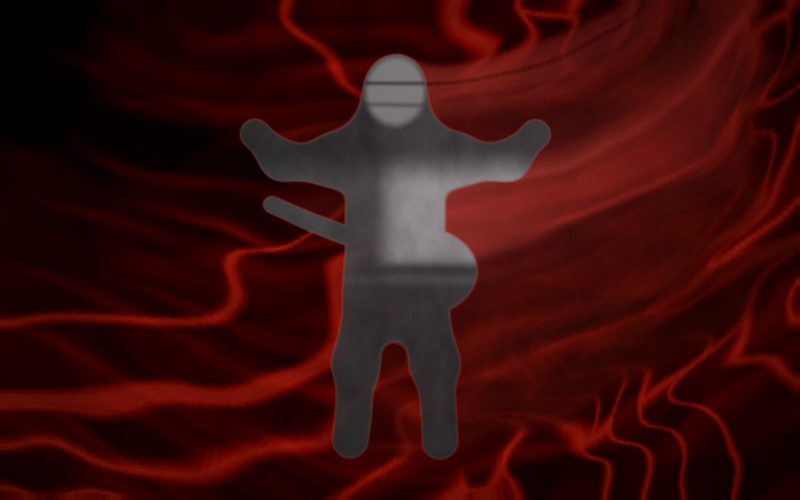
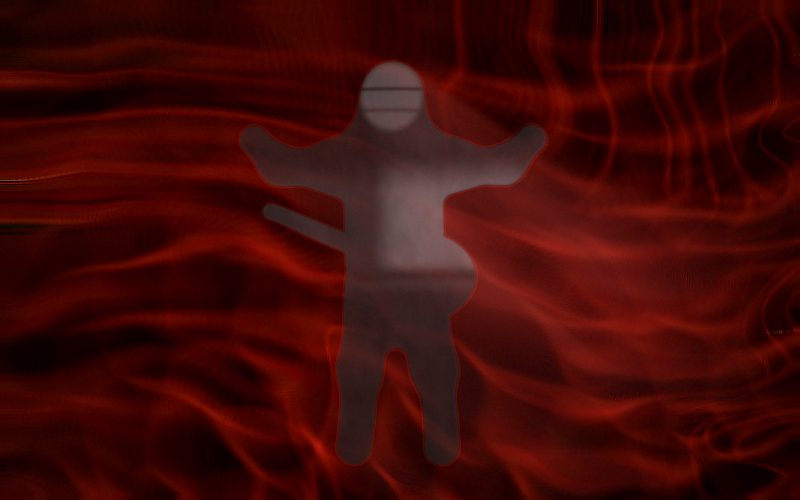
悪夢: 灰の姿を半透明に差し戻し、うねりを「流れ」から「折り畳み」へ (#156)
2026-08-25 の再フィードバック対応:
- 人物がはっきり写りすぎ → 半透明のうっすらした写りに差し戻し
  (figure 0.90→0.55、閾の幅 0.24→0.40、輝度 0.92→0.85、縁の灼け 0.25→0.16)
- 時間が経つと「うねり」でなく「流れてるだけ」に見える → 動かし方を再構成:
  * 網目は移流で運ばず、時間で波打つドメインワープ(heave: 2スケールの
    curl noise、位相が二方向に移動)で毎フレーム生成し直す。移流に頼ると
    網は数秒で絹の筋に溶けてベルトコンベアに見える
  * 巨渦をひとつ→逆回転の渦対に(単渦は場全体を同方向へ運ぶだけ)。
    渦の間で場が折り返す
  * 中間コイルの位相を二方向に動かし、振幅を約30秒周期で脈打たせる
  * 移流層は千切れた裂片の短い記憶(再刻印 τ≈2.2s)に格下げ、
    移流速度も 0.035+0.16pull → 0.024+0.11pull に減速
- サムネイルは実走行キャプチャに変更(freeze だと animTime=0 で網の
  たわみが止まり、移流の平滑化だけが溜まってぼける)
- 発注書: 地雷リストに #9(網目を移流だけで動かさない)を追記

検証: verify_order 0 errors / verify_static 既知のgtagのみ /
verify_runtime --motion --longrun 12/12 pass。
連続フレーム比較で網の折り目が組み変わる(平行移動でない)ことを確認。

Claude-Session: https://claude.ai/code/session_0193D14d1SybLDp5E6kaLiCx

diff --git a/opus5_uneri.html b/opus5_uneri.html
@@ -14,8 +14,9 @@
     1. 視界はうねりのみ — 部屋は決して現れない。カメラの実写は素材として
        だけ生き残る(このリポジトリの「実世界に投影する」原則からの意図的な
        逸脱。この夢に世界は無い)。
-    2. 灰の姿 — 人物は色を失った灰の像として前面に残る(参考画像の
-       人形のような姿)。縁は絶えず千切られ、もがくほど速く呑まれる。
+    2. 灰の姿 — 人物は色を失った灰の像として、半透明にうっすらと残る
+       (くっきり描くと「夢の前に立つ人」になる — 同日の再フィードバックで
+       不透明 0.90 から差し戻し)。縁は絶えず千切られ、もがくほど速く呑まれる。
        ※「意識の窓」は 2026-08-25 のフィードバックで廃止。
     3. 身体は呑まれる — マスクの中の実写が絶えずうねりへ注入され、
        引き伸ばされ、千切れて運ばれる。流血や欠損は描かない(痛みは無い。
@@ -318,7 +319,7 @@
           pull: 0.60,
           tear: 0.55,
           rust: 0.50,
-          figure: 0.90,
+          figure: 0.55,
           dizzy: 0.45,
           grip: 0.60,
           exposure: 1.0,
@@ -352,7 +353,7 @@
           <p>
             10代の頃に繰り返し見た悪夢です。視界は黒と赤のうねりだけで、
             部屋は映りません。カメラに映るあなたは色を失った灰の姿として
-            うねりの前に残りますが、縁から絶えず千切られ、裂片となって
+            うっすらと透けて残りますが、縁から絶えず千切られ、裂片となって
             流されていきます。<strong>もがくほど、うねりは速まり、姿は
             速く呑まれます。静かにしていると、少しだけ緩みます</strong>。
             痛みはありません。声も出せません。
@@ -736,22 +737,42 @@
             float l = dot(c, vec3(0.299, 0.587, 0.114));
             return vec3(l) * vec3(0.93, 0.94, 0.97);
           }
-          // うねり。3スケール: 画面より大きい巨渦(中心は画面外を彷徨う)+
-          // 中間のコイル + 微細な剪断。curlN は unit-scale(kiin-seido の教訓)。
+          // 大きなたわみ: 画面より大きい波が網目の座標系そのものを揺らす。
+          // 移流(積分)ではなく毎フレーム生成し直すので、網は溶けずに
+          // 「うねる」— 流れてるだけに見える問題への答え(2026-08-25)
+          vec2 heave(vec2 p, float t, float sw) {
+            float s1 = 0.55 / max(sw, 0.4);
+            vec2 w = curlN(p * s1 + vec2(t * 0.11, -t * 0.079)) * 0.30;
+            w += curlN(p * s1 * 2.4 + vec2(-t * 0.14, t * 0.10) + 3.7) * 0.13;
+            return w;
+          }
+          // うねり。3スケール: 画面より大きい逆回転の巨渦対(中心は画面外を
+          // 彷徨う)+ 呼吸する中間コイル + 微細な剪断。curlN は unit-scale
+          // (kiin-seido の教訓)。
+          // 渦をひとつにすると場全体が同方向へ運ばれるだけのベルトコンベアに
+          // なり「流れてるだけ」に見える(2026-08-25 フィードバック)。逆回転の
+          // 対と、位相が動き振幅が脈打つコイルが「折り畳み」= うねりを作る
           vec2 dreamFlow(vec2 p, float t, float aspect, float swell, float tear) {
             float sw = mix(0.85, 2.6, swell);
-            vec2 c = vec2(0.5 * aspect, 0.5) +
-              vec2(sin(t * 0.021), cos(t * 0.016)) * (0.45 + 0.22 * sw);
-            vec2 d = p - c;
-            float r2 = dot(d, d);
-            // 巨渦: 分母の sw^2 が「画面より大きい」を作る。中心が画面内に
-            // 見えたら渦は小さすぎる(発注 §10 巨大テスト)
-            vec2 giant = vec2(-d.y, d.x) * (0.85 / (0.30 + r2 / (sw * sw)));
+            vec2 mid0 = vec2(0.5 * aspect, 0.5);
+            vec2 c1 = mid0 + vec2(sin(t * 0.023), cos(t * 0.017)) * (0.45 + 0.22 * sw);
+            vec2 c2 = mid0 - vec2(sin(t * 0.019 + 2.1), cos(t * 0.014 + 0.7)) * (0.50 + 0.24 * sw);
+            vec2 d1 = p - c1;
+            vec2 d2 = p - c2;
+            // 巨渦対: 分母の sw^2 が「画面より大きい」を作る。中心が画面内に
+            // 見えたら渦は小さすぎる(発注 §10 巨大テスト)。符号が逆なので
+            // 二つの渦のあいだで場が折り返す
+            vec2 giant = vec2(-d1.y, d1.x) * (0.60 / (0.30 + dot(d1, d1) / (sw * sw)))
+                       - vec2(-d2.y, d2.x) * (0.55 / (0.36 + dot(d2, d2) / (sw * sw)));
             // 重力: 中心へゆっくり引かれる。非圧縮性はこの夢に要らない —
             // 発散が「呑み込み」を作る
-            vec2 inward = -d * (0.16 / (0.6 + r2));
-            vec2 mid = curlN(p * (2.3 / max(sw, 0.4)) + vec2(0.0, t * 0.013)) * 0.46;
-            vec2 fine = curlN(p * (5.0 + 7.0 * tear) - vec2(t * 0.02, 0.0)) *
+            vec2 inward = -d1 * (0.12 / (0.6 + dot(d1, d1)));
+            // 中間コイル: 位相が二方向に動き、振幅が約30秒周期で脈打つ。
+            // 静的なコイルだと巨渦に運ばれる「模様」にしかならない
+            float breathe = 0.70 + 0.45 * sin(t * 0.21) + 0.25 * sin(t * 0.083 + 1.3);
+            vec2 mid = curlN(p * (2.3 / max(sw, 0.4)) +
+              vec2(sin(t * 0.047) * 0.8, t * 0.031)) * 0.60 * breathe;
+            vec2 fine = curlN(p * (5.0 + 7.0 * tear) - vec2(t * 0.055, 0.0)) *
               (0.16 + 0.50 * tear);
             return giant + inward + mid + fine;
           }
@@ -795,7 +816,7 @@
             vec2 flow = dreamFlow(p, uTime, uAspect, uSwell, uTear);
             // もがくと締まる: struggle が全体の速度を上げる。身体の動きは
             // 局所の乱れとして流れに足される(暴れた分だけ自分が乱される)
-            float speed = (0.035 + 0.16 * uPull) * (1.0 + 1.4 * uStruggle);
+            float speed = (0.024 + 0.11 * uPull) * (1.0 + 1.4 * uStruggle);
             flow += bodyMotion * 0.9;
             // 千切れ: 追跡点を流れの法線方向に揺らす。位置シードの静的な場を
             // dt でスケールするので、freeze では恒等のまま
@@ -826,11 +847,14 @@
 
             // うねり自身の顔料: 場は空にならず、リニア補間の灰色化にも呑まれ
             // ない(技術注意#6)。これが減衰の床=有界性でもある
-            float pig = veinT(p + vec2(uTime * 0.006, -uTime * 0.004));
+            // 網目はたわむ座標系で毎フレーム生成し直す(移流で運ぶと数秒で
+            // 絹の筋に溶ける)。移流層はこの上に裂片と履歴を残すだけ
+            float sw = mix(0.85, 2.6, uSwell);
+            float pig = veinT(p + heave(p, uTime, sw) +
+              vec2(uTime * 0.006, -uTime * 0.004));
             vec3 base = dreamRamp(pig * 0.95, uRust);
-            // τ≈6s: 網目の再刻印。遅いと移流の拡散に負けて平坦な赤に均され、
-            // 参考画像の黒地の網目が消える(2026-08-25 の教訓)
-            col = mix(col, base, 1.0 - exp(-uDt * 0.22));
+            // τ≈2.2s: 網の再刻印は速く。移流の記憶は2秒ほどだけ残る
+            col = mix(col, base, 1.0 - exp(-uDt * 0.45));
 
             fragColor = vec4(col, 1.0);
           }
@@ -1026,13 +1050,16 @@
             vec4 mk = texture(uMask, wuv);
             float er = fbm(vUv * ar * 8.0 + fl * 0.7);
             float th = 0.24 + 0.42 * uTear * er + 0.22 * uStruggle;
-            float a = smoothstep(th, th + 0.24, mk.r) * uFigure * uPresent;
-            vec3 person = greyGrade(texture(uScene, wuv).rgb) * 0.92;
+            // うっすら: 姿は半透明で、うねりが常に透けて見える
+            // (くっきり不透明にすると「夢の前に立つ人」になってしまう —
+            // 2026-08-25 フィードバックで 0.90 不透明から差し戻し)
+            float a = smoothstep(th, th + 0.40, mk.r) * uFigure * uPresent;
+            vec3 person = greyGrade(texture(uScene, wuv).rgb) * 0.85;
             col = mix(col, person, a);
             // 呑まれかけの縁だけが赤く灼ける帯
             float band = smoothstep(th - 0.16, th, mk.r) *
               (1.0 - smoothstep(th, th + 0.20, mk.r));
-            col += dreamRamp(0.78, uRust) * band * 0.25 * uPresent;
+            col += dreamRamp(0.78, uRust) * band * 0.16 * uPresent;
 
             // ---- トーン: 暗く、周縁は深く沈む
             col = clamp(col * uExposure * 1.25, 0.0, 4.0);

diff --git a/prompts/opus5_uneri_order.md b/prompts/opus5_uneri_order.md
@@ -56,7 +56,7 @@
 | # | 視覚的不変量(実装可能な構造の言葉で) | 担当軸 | 実装原理の指定 | 外した場合の影響 |
 |---|---|---|---|---|
 | 1 | 視界はうねりのみ: 画面の全域が、画面より遥かに大きい多スケールの回転流で満ちる。部屋も地平も無い。うねりは自己完結して動き続ける(無人でも成立) | 場 | フィードバック移流(semi-Lagrangian の逆追跡)。流れは巨大渦(中心は画面外を彷徨う)+中間コイル+微細剪断の3スケール合成、微細側は curl noise | 部屋が見えた瞬間「部屋にエフェクトが掛かった映像」になり、夢の中に居ない |
-| 2 | 灰の姿(2026-08-25 改訂): 人物は彩度を失った灰の像として前面に残る(参考画像の人形)。縁は千切れの閾ノイズで絶えず欠け、流れで僅かによじれる。もがくほど速く呑まれる | 図地 | マスクの閾値合成(閾 = ノイズ×tear + struggle)。人物のサンプリング UV を流れ場で微小ワープ。灰 = 輝度のみ残すグレード | 人物が居ないと「自分が呑まれる」夢でなくただの模様になる。色が残ると夢の外の人になる |
+| 2 | 灰の姿(2026-08-25 改訂): 人物は彩度を失った灰の像として、**半透明にうっすらと**残る(不透明に描くと「夢の前に立つ人」になる — 同日の再フィードバック)。縁は千切れの閾ノイズで絶えず欠け、流れで僅かによじれる。もがくほど速く呑まれる | 図地 | マスクの閾値合成(閾 = ノイズ×tear + struggle)、姿の初期値 0.55。人物のサンプリング UV を流れ場で微小ワープ。灰 = 輝度のみ残すグレード | 人物が居ないと「自分が呑まれる」夢でなくただの模様になる。くっきり残ると呑まれていない |
 | 3 | 身体は呑まれる: マスク内の実写が毎フレームうねりの場へ注入され、移流で引き伸ばされ、千切れる。痛みの記号(血・飛散・轟音)は使わない | 質感 | 注入 = マスク×現在フレーム(悪夢の配色へグレード)×dt。千切れ = 微細剪断の強度+移流の複数タップにノイズ偏差 | 注入が無いと自分が呑まれず、ただの抽象背景になる |
 | 4 | もがくと締まる: 運動量(重心速度の EMA +運動場)が大きいほど、引きが強まり意識の窓が狭まる。静止で緩む。ゼロにはならない | 時間 | struggle メーター(JS: 重心速度の EMA)→ uPull と窓半径に接続。運動場(マスク BA)は局所の乱流を上げる | 「抜け出したいのに抜け出せない」が絵に出ず、動きが報われる通常作品になる |
 | 5 | 目眩と浮遊: 画面全体がごくゆっくり回転・呼吸する。窓は逆位相で漂う。reduced-motion では停止 | 時間 | 合成パスでうねりのサンプリング座標を微回転+微拡縮(art clock 由来、freeze で停止) | 目眩が無いと「観察している」絵になり、「中に居る」体験にならない |
@@ -102,7 +102,7 @@
 | pull | 引きの強さ | 0–1 (0.60) | 流れの速さと吸い込み |
 | tear | 千切れ | 0–1 (0.55) | 微細剪断と像の引き裂かれやすさ |
 | rust | 赤と茶 | 0–1 (0.50) | うねりの色相(0=紅寄り、1=朱茶寄り) |
-| figure | 姿 | 0–1 (0.90) | 人の姿がどれだけ残るか |
+| figure | 姿 | 0–1 (0.55) | 人の姿がどれだけ残るか(半透明が既定) |
 | dizzy | 目眩 | 0–1 (0.45) | 回転と呼吸の振幅 |
 | grip | もがきの代償 | 0–1 (0.60) | 動いたときにどれだけ締まるか |
 | exposure | 明るさ | 0.6–1.4 (1.00) | 画面全体の明るさ |
@@ -139,6 +139,11 @@
 8. 網目に ridged fbm(1-|2f-1|)を使わない — fbm は 0.5 付近に集中するので
    ほぼ全面が脈になり、平坦な赤の面に潰れる。細胞壁は Voronoi F2-F1 で作る
    (2026-08-25 の実装で確認)。
+9. 網目を移流だけで動かさない — 持続的な移流は網を数秒で絹の筋に溶かし、
+   「流れてるだけ」に見える(同日フィードバック)。網は時間で波打つ
+   ドメインワープ(heave)で毎フレーム生成し直し、移流層は裂片の短い記憶
+   (τ≈2s)に格下げする。渦はひとつにしない — 単渦はベルトコンベアになる。
+   逆回転の渦対と振幅が脈打つコイルが「折り畳み」を作る。
 
 ## 8. 進め方(フェーズ制・厳守)
 
